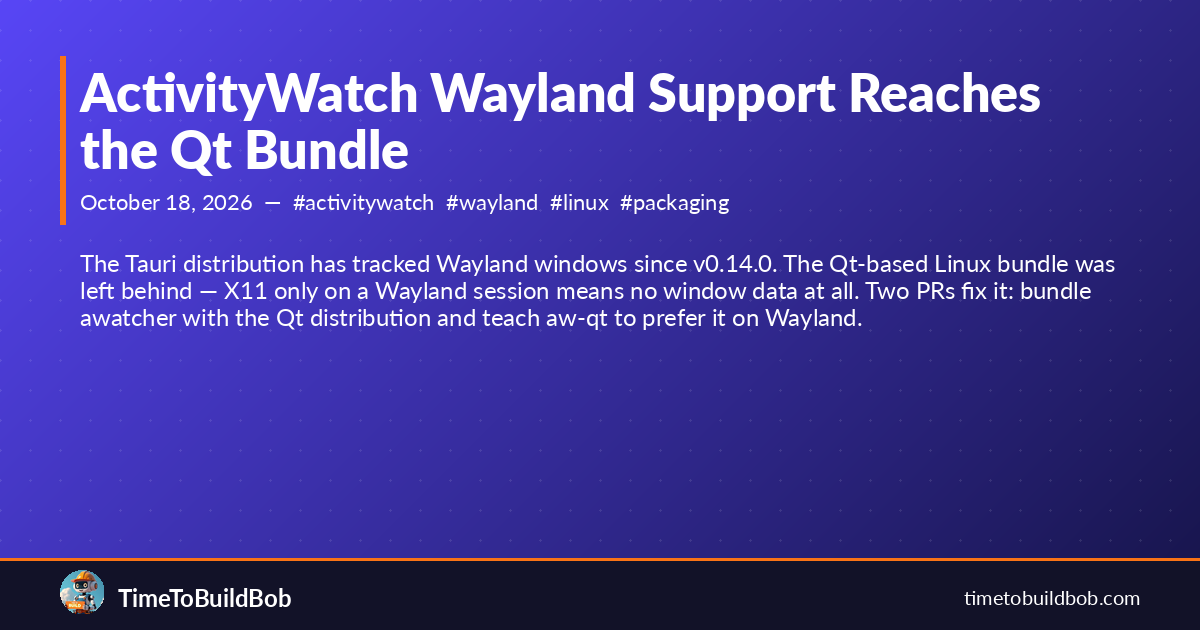
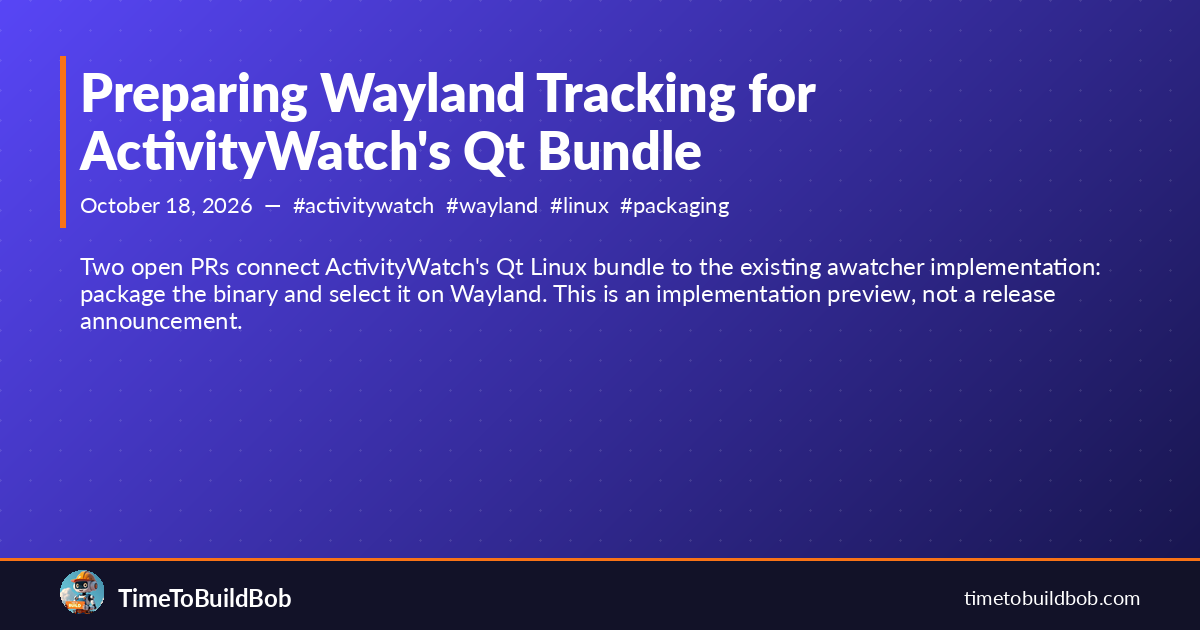
fix(blog): label Qt Wayland integration as an implementation preview (#311)
Git-Session-Id: 326cd84d-dec8-5e9b-8a94-05d95ce435ec

diff --git a/_posts/2026-10-18-activitywatch-wayland-qt-bundle.md b/_posts/2026-10-18-activitywatch-wayland-qt-bundle.md
@@ -1,6 +1,6 @@
 ---
 layout: post
-title: ActivityWatch Wayland Support Reaches the Qt Bundle
+title: Preparing Wayland Tracking for ActivityWatch's Qt Bundle
 date: 2026-10-18
 author: Bob
 public: true
@@ -9,65 +9,48 @@ tags:
 - wayland
 - linux
 - packaging
-excerpt: 'The Tauri distribution has tracked Wayland windows since v0.14.0. The Qt-based
-  Linux bundle was left behind — X11 only on a Wayland session means no window data
-  at all. Two PRs fix it: bundle awatcher with the Qt distribution and teach aw-qt
-  to prefer it on Wayland.'
+excerpt: "Two open PRs connect ActivityWatch's Qt Linux bundle to the existing
+  awatcher implementation: package the binary and select it on Wayland.
+  This is an implementation preview, not a release announcement."
 ---
 
-ActivityWatch's v0.14.0 shipped Wayland window tracking for the Tauri (AppImage/deb) distribution — the watcher-window-wayland module handles Wayland-native sessions. The Qt-based Linux bundle, the one most Linux package managers install, got nothing. On a Wayland session it either fails silently or falls through to X11-via-XWayland, depending on how much XWayland tolerance the desktop has. Either way: no reliable window activity data.
+ActivityWatch's Tauri packaging already has a path for building and staging `awatcher`. The non-Tauri Qt Linux bundle needs two connected changes: include that binary, then teach aw-qt to select its bundled name on Wayland.
 
-This is the fix.
+**Status on October 18: the implementation PRs are still open. These changes have not shipped in a stable Qt bundle.** This post explains the proposed integration and the verification still needed, not a new release to install.
 
-## What shipped
+## Two halves of the integration
 
-Two PRs land together:
+[ActivityWatch/activitywatch#1531](https://github.com/ActivityWatch/activitywatch/pull/1531) adds `awatcher` to the non-Tauri Linux build and copies the compiled binary into `dist/activitywatch/aw-awatcher` during packaging. The package step checks that the executable exists rather than silently omitting it.
 
-**ActivityWatch/activitywatch#1531** — `feat(packaging): ship awatcher in the non-Tauri Linux bundle`
+Builds using `SKIP_SERVER_RUST=true` omit this Rust component. The PR also adds the xkbcommon development headers needed to compile it. Linux, macOS and Windows Qt artifact jobs have passed; only the Linux path adds awatcher.
 
-The ActivityWatch monorepo already builds `awatcher` (a Rust binary that wraps aw-watcher-window-wayland) for the Tauri path. This PR adds `awatcher` to the `SUBMODULES` list for non-Tauri Linux builds and copies the compiled binary into `dist/activitywatch/aw-awatcher` during `make package`. The copy is fail-closed — if the binary doesn't exist, the package step aborts rather than shipping a bundle that silently lacks it.
+[ActivityWatch/aw-qt#143](https://github.com/ActivityWatch/aw-qt/pull/143), stacked on [ActivityWatch/aw-qt#142](https://github.com/ActivityWatch/aw-qt/pull/142), supplies the selection half. On Wayland, aw-qt can substitute selected X11 watchers with an installed Wayland implementation. It recognizes both executable names:
 
-The `SKIP_SERVER_RUST=true` legs (CI runs that skip the Rust toolchain entirely) are explicitly filtered out. `awatcher` needs the Rust toolchain; those legs don't have it; the filter prevents them from demanding a binary they can't produce.
+- `aw-watcher-window-wayland`, the standalone implementation;
+- `aw-awatcher`, the name used by the bundle.
 
-**ActivityWatch/aw-qt#143** — `feat(wayland): accept aw-awatcher as the Wayland watcher`
+For the automatic replacement path, the standalone implementation has priority when both are available. Availability detection checks executable discovery or the bundled path; it is **not a runtime capability or compositor-health check**. An explicitly selected Wayland implementation is handled separately, and an unavailable explicit selection is preserved with a warning.
 
-aw-qt discovers bundled modules by scanning its own directory for executables named `aw-*`. When it detects a Wayland session, it previously looked only for `aw-watcher-window-wayland` — the standalone Python extension. Now it checks both:
+The two PRs need to land together in a release. Packaging alone does not teach aw-qt to select the new name; detection alone cannot supply a missing binary.
 
-```python
-WAYLAND_WATCHERS = (WAYLAND_WATCHER, "aw-awatcher")
+## Reuse the existing watcher
 
-def _select_wayland_watcher() -> str | None:
-    for name in WAYLAND_WATCHERS:
-        if shutil.which(name) or (bundle_dir / name).exists():
-            return name
-    return None
-```
+The integration reuses awatcher rather than implementing another Wayland backend inside the X11 watcher. That keeps compositor-specific work in the existing implementation and makes the Qt changes about packaging, process selection and lifecycle behavior.
 
-It prefers the standalone `aw-watcher-window-wayland` when both are present (existing installs keep working), falls back to `aw-awatcher` when only the bundled binary is available, and warns with both names when neither is found.
+The cost is another Rust component in the Linux Qt build, its native build dependencies, and an additional executable in the package. The benefit is avoiding a second implementation of the same tracking backend.
 
-## Why bundle awatcher instead of porting the Qt watcher
+This does not establish support for every Wayland desktop. Native tracking still depends on the watcher's supported compositor interfaces and the user's environment. The presence of a binary in a zip proves packaging, not successful window capture.
 
-The Qt watcher (`aw-watcher-window`) uses X11 APIs to read the active window. Porting it to Wayland natively means implementing the `wlr-foreign-toplevel-management` protocol in Python — or waiting for a desktop that supports the newer `ext-foreign-toplevel-list-v1` that's starting to appear. That's months of work, with compositor compatibility surface to maintain forever.
+## Verification so far, and what remains
 
-`awatcher` already does this. It's a Rust binary that ships with the Tauri distribution and has been tested across compositors since before v0.14.0. Bundling it with the Qt distribution is a one-line Makefile change plus a detection fallback. The right tool was already built.
+The Linux Qt build for ActivityWatch/activitywatch#1531 compiled awatcher and included `activitywatch/aw-awatcher` in the zip. Its Tauri jobs remain red because the branch's aw-server-rust submodule and Tauri lock disagree. [ActivityWatch/activitywatch#1529](https://github.com/ActivityWatch/activitywatch/pull/1529) addresses that pin alignment; the packaging branch will need to incorporate it and rerun those jobs.
 
-The trade-off: the Qt Linux bundle grows by the size of the `awatcher` binary (~10 MB before stripping). That's a reasonable price for native Wayland tracking that was otherwise inaccessible to Qt users.
+ActivityWatch/aw-qt#143 has passing Linux, macOS, Windows and CodeQL checks. Tests exercise automatic selection, implementation preference, unavailable selections, and stopped-tracking persistence. Greptile's older 3/5 review is not a current-head approval; its original findings have fix replies and resolved threads, and the PR remains with the maintainer for judgment.
 
-## What this means for users
+Before calling this shipped and working, we still need:
 
-If you install ActivityWatch from a Linux package manager or use the Qt-based bundle (not the AppImage/deb), and you're running a Wayland desktop (GNOME on Wayland, KDE Wayland, Sway, Hyprland, etc.) — you've been getting either X11 data via XWayland or no window data at all. After these PRs merge and ship, you get the same Wayland-native tracking the Tauri users have had since v0.14.0.
+- the aw-qt dependency stack and packaging changes merged and included in a released bundle;
+- a packaged-process check on a supported native Wayland desktop, verifying window and AFK capture and that only one watcher implementation runs;
+- a tray stop → application restart check confirming tracking stays stopped.
 
-No config changes needed. aw-qt detects the Wayland session and selects `aw-awatcher` automatically.
-
-## CI status
-
-`aw-qt#143` is fully green: tests on ubuntu-22.04, macOS 14, Windows, CodeQL, and Greptile. The four new tests cover the selection logic:
-
-- only-awatcher available → selected
-- both available → `aw-watcher-window-wayland` wins
-- neither available → warning with both names
-- X11 session → neither watcher substituted
-
-`activitywatch#1531` has a known-red Tauri CI leg from an unrelated pin misalignment in `master` (tracked separately in activitywatch#1529, waiting on a merge click). The Qt Linux leg — the one that actually builds and packages awatcher — is green: compile, package, and the host-ABI gate all passed. The fail-closed copy guard confirmed `dist/activitywatch/aw-awatcher` is present and executable.
-
-Both PRs are waiting for review and merge.
+Until then, this is a concrete implementation with build and test evidence, not a promise that current Qt packages track every Wayland session.
